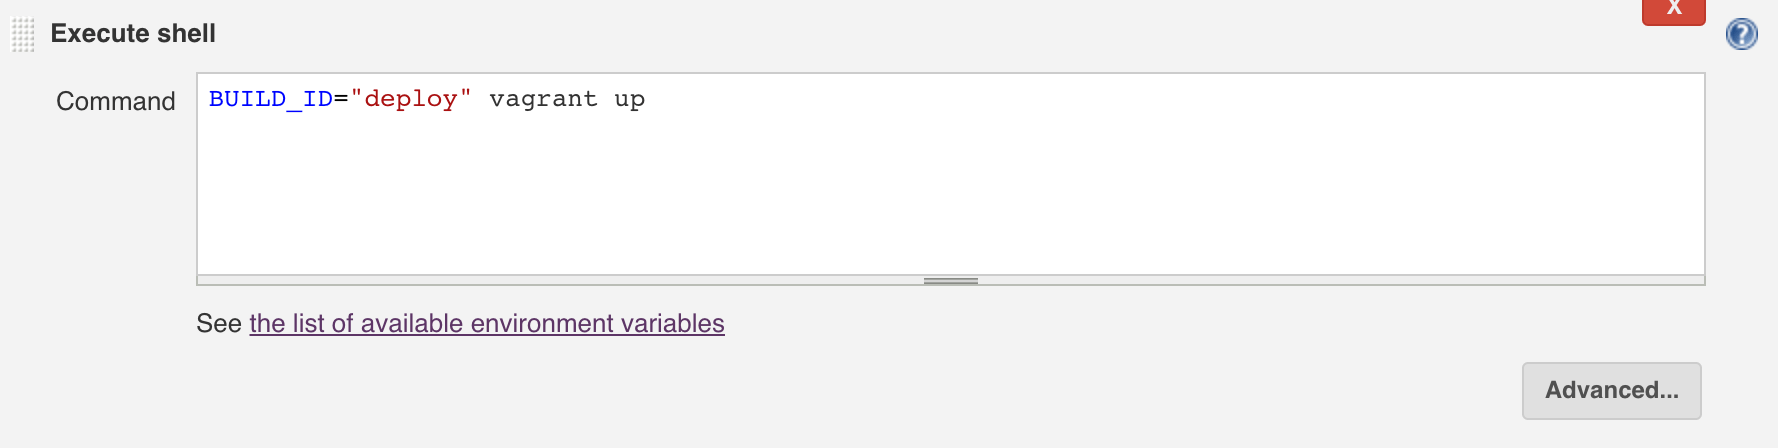
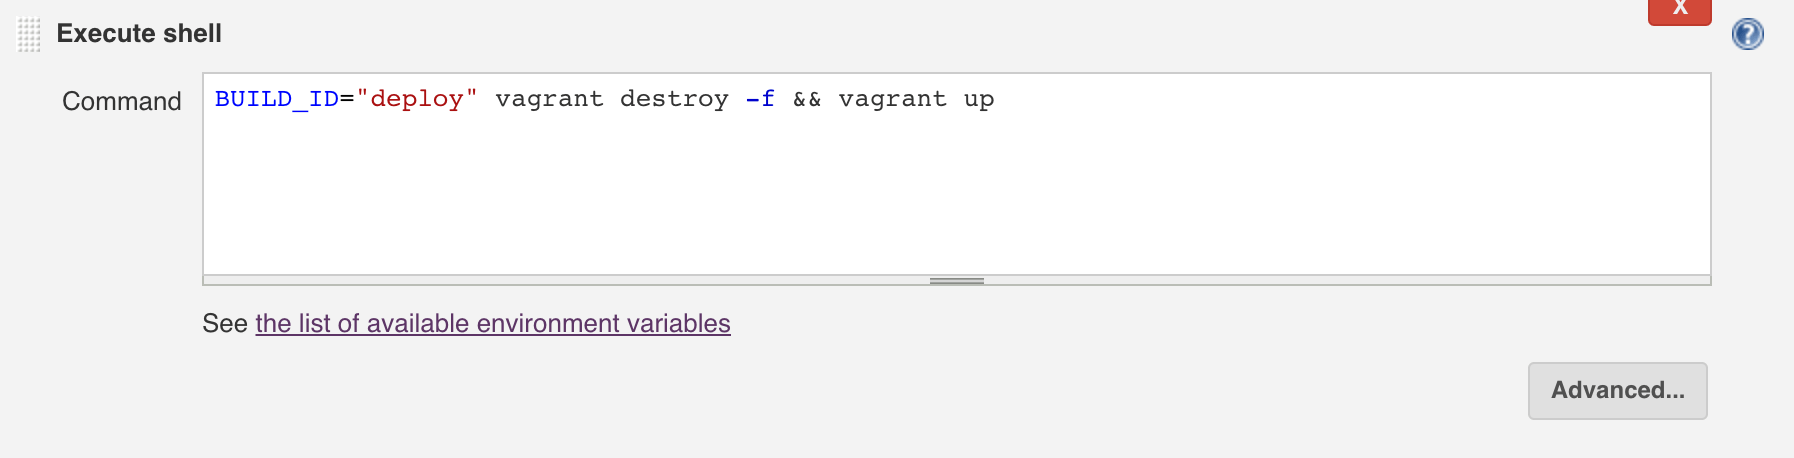
capitulo 9: correcao no comando do Vagrant

diff --git a/09-entrega-continua.md b/09-entrega-continua.md
@@ -497,7 +497,7 @@ Nesse exercício vamos utilizar o Jenkins para permitir que o deploy da aplicaç
 
   ![Opção Invoke top-level Maven targets na seção Build](imagens/capitulo-09/jenkins-new-item-build-maven.png)
 
-5. Ainda na seção **Build**, agora escolha a opção **Execute Shell** e preencha o campo *Command* com: **BUILD_ID="deploy" vagrant up**.
+5. Ainda na seção **Build**, agora escolha a opção **Execute Shell** e preencha o campo *Command* com: **BUILD_ID="deploy" vagrant destroy -f && vagrant up**.
 
   ![Opção Execute shell na seção Build](imagens/capitulo-09/jenkins-new-item-build-vagrant.png)
 
